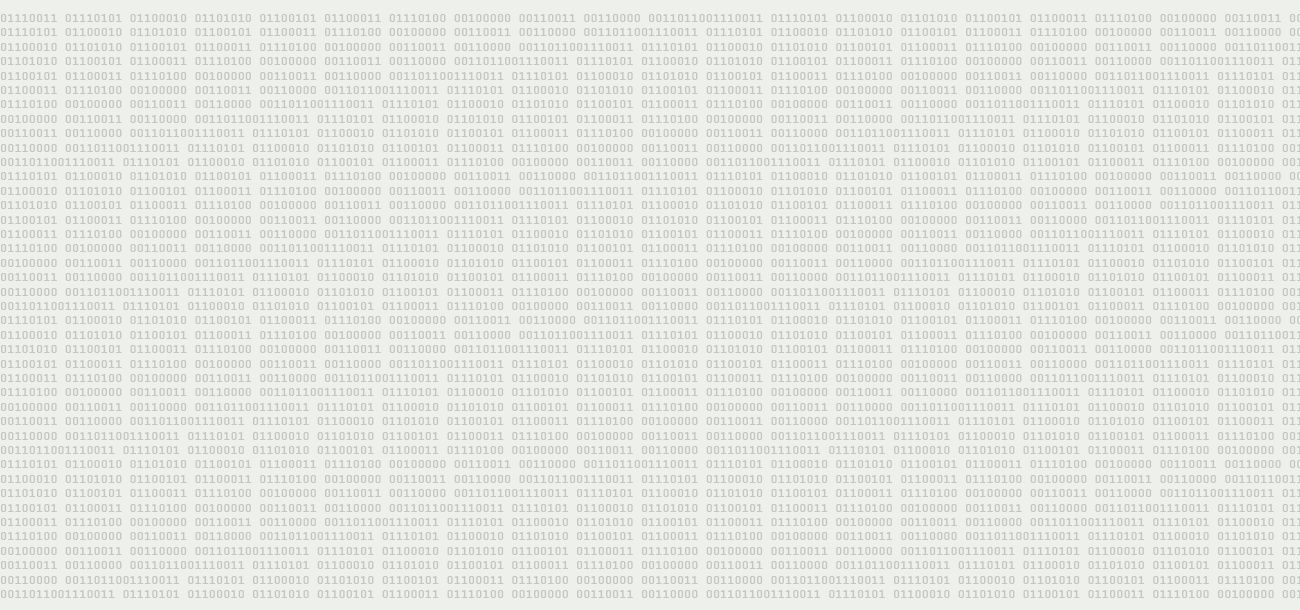
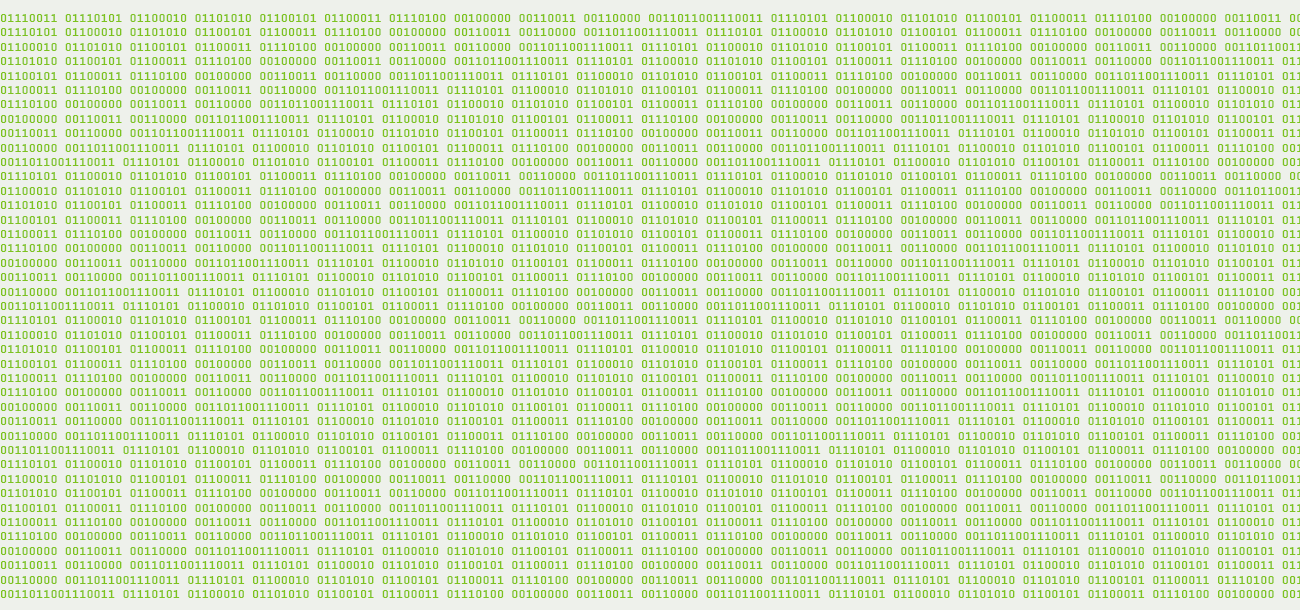
Font Colour And Background
Changed the background and font colours for the menu

Changed region(s): [[0.0, 0.0, 1.0, 0.9967]]

diff --git a/js/menu.js b/js/menu.js
@@ -4,10 +4,10 @@ var menuState = {
   bg = game.add.sprite(game.world.width/2,game.world.height/2, 'menu bg');
   bg.anchor.setTo(0.5);
 
-  title = game.add.text(500, 200, 'Subject 306', {font: '50px Orbitron', fill: '#4b6d34'});
+  title = game.add.text(500, 200, 'Subject 306', {font: '50px Orbitron', fill: '#000711'});
 
 // controls
-help = game.add.text(100, 450, '', {font:  "Special Elite", fontSize: "30px", fill: '#4b6d34'});
+help = game.add.text(100, 450, '', {font:  "Special Elite", fontSize: "30px", fill: '#000711'});
   helpText = 'W A S D keys to move \n';
   helpText += 'enter to select \n';
   helpText += 'p to pick up';
@@ -18,7 +18,7 @@ button = game.add.button(game.world.centerX-100, game.world.centerY-50);
 button.scale.setTo(6, 2);
 //button.anchor.setTo(0.5,0.5);
 button.onInputUp.add(this.start); //When the button is clicked, run the start function
-text = game.add.text(button.x,button.y,'START', {font: '50px Orbitron', fill: '#548235'});  //Some text for the button with arial font coloured green
+text = game.add.text(button.x,button.y,'START', {font: '50px Orbitron', fill: '#000711'});  //Some text for the button with arial font coloured green
 //text.anchor.setTo(0.5,0.5);
 
 },
